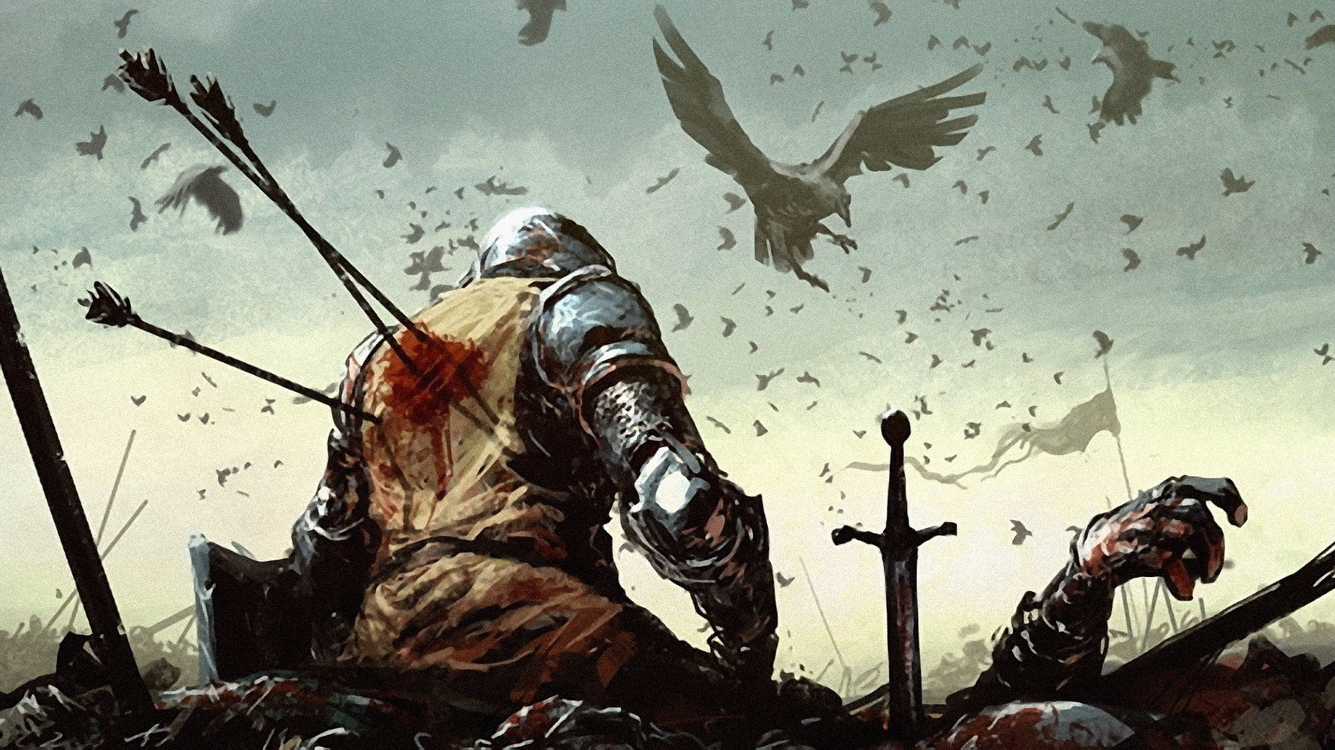
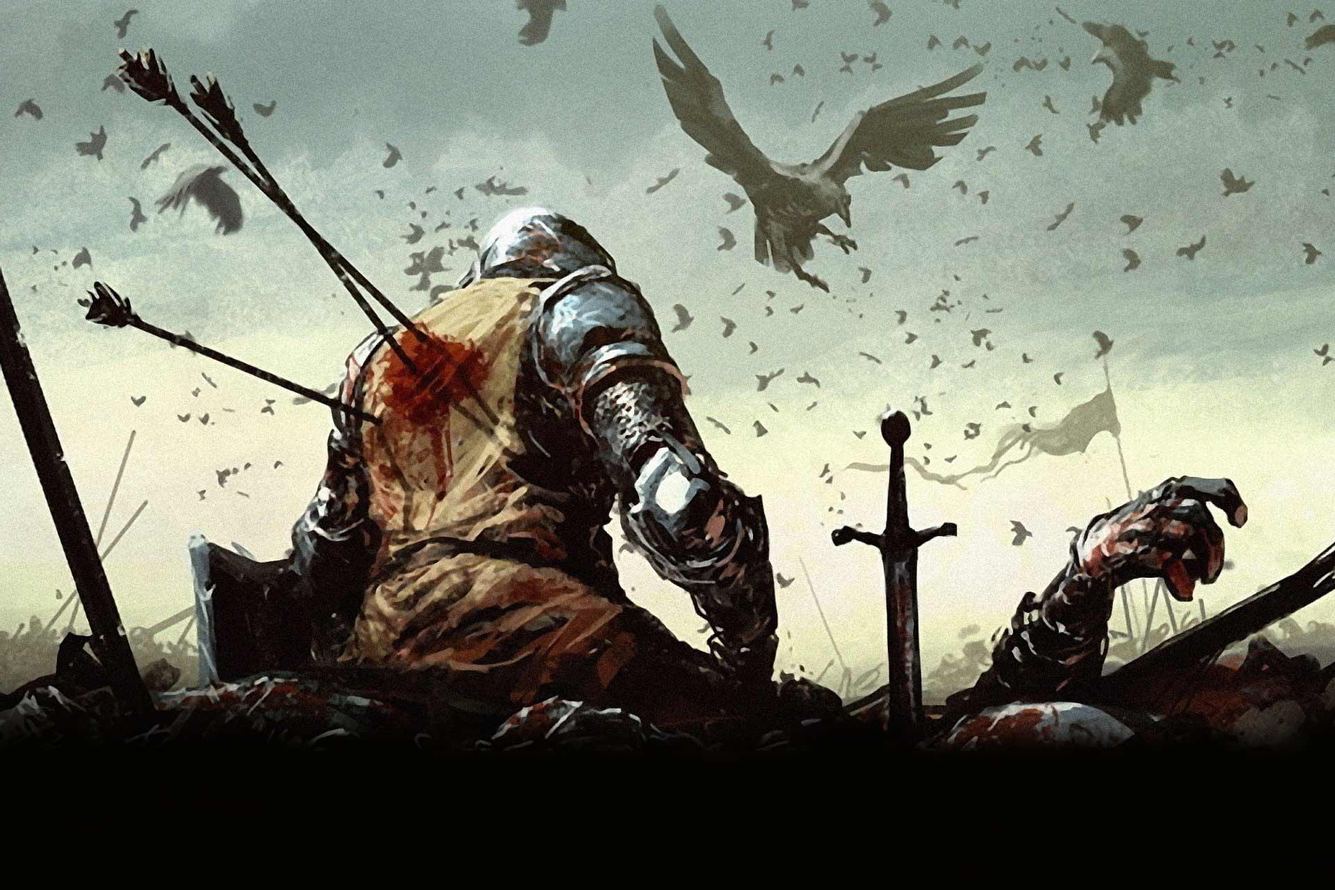
lkjh

diff --git a/theme.css b/theme.css
@@ -3,7 +3,7 @@
 body { 
 color: #fff; 
 font-family: Arial, Helvetica, sans-serif; 
-background-color: #2d1312;
+background-color: #000;
 background-image: url(./images/background.jpg); 
 background-repeat: no-repeat;
 background-size: cover;
